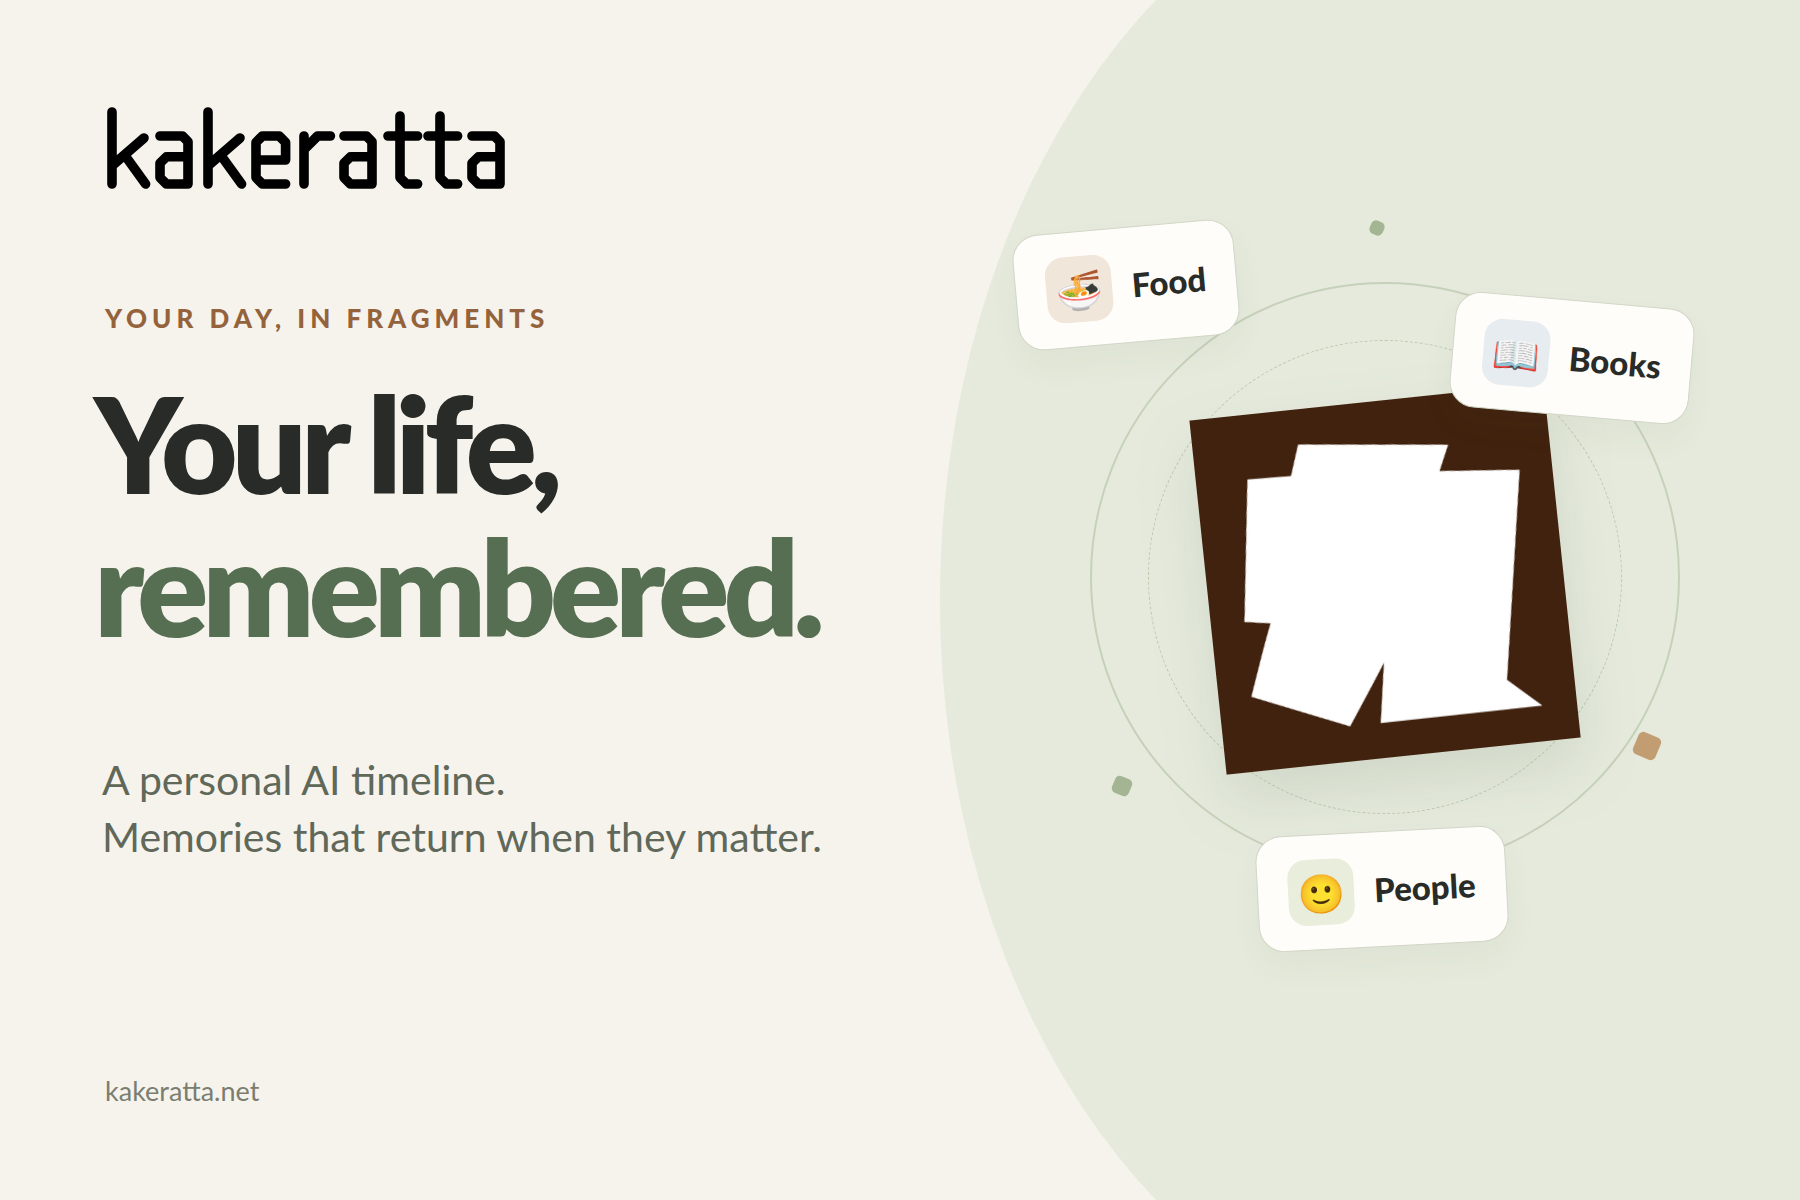
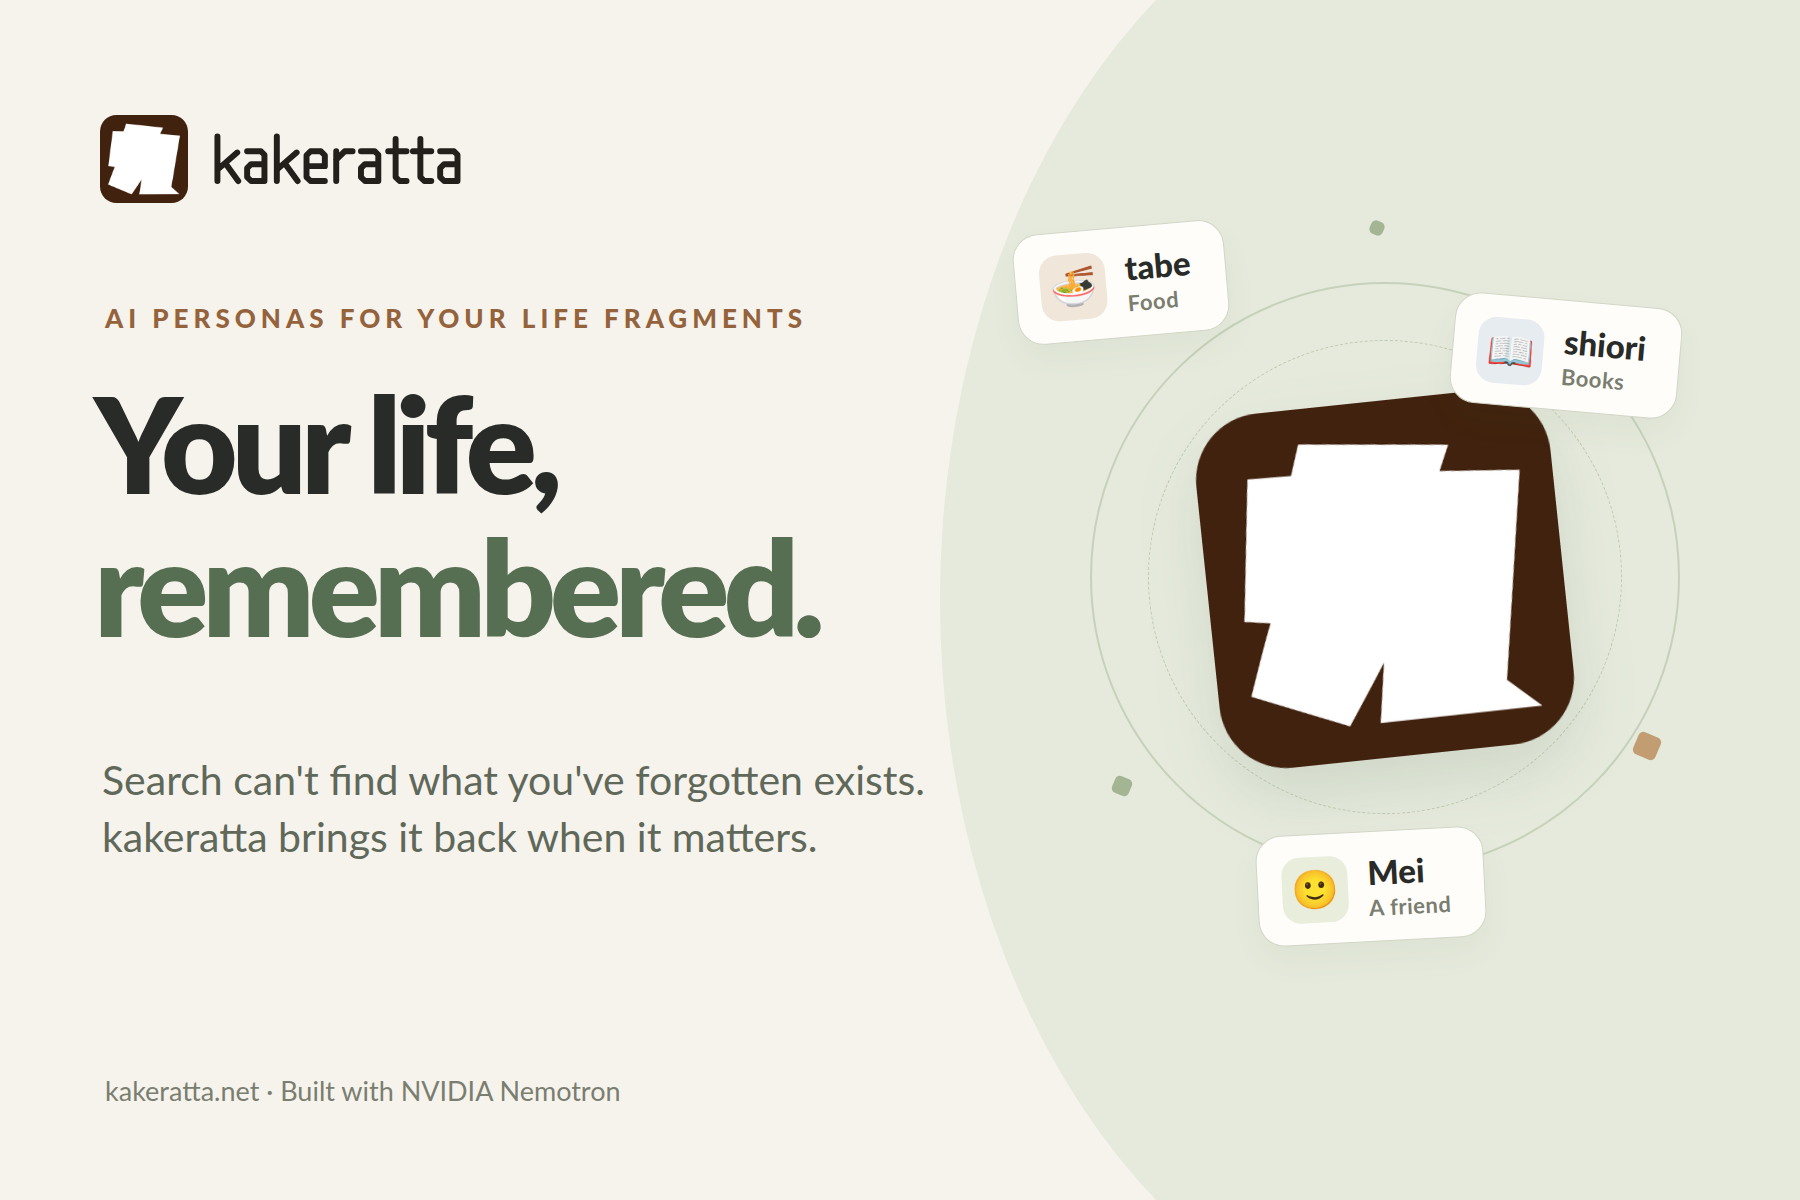
Refine hackathon project description and thumbnail

diff --git a/docs/hackathon/thumbnail.html b/docs/hackathon/thumbnail.html
@@ -8,7 +8,7 @@
   body { background: #f6f3ed; color: #282b27; font-family: Lato, Arial, sans-serif; }
   .wash { position: absolute; width: 1080px; height: 1500px; left: 940px; top: -150px; border-radius: 50%; background: #e5eadc; }
   .brand { position: absolute; left: 100px; top: 104px; font-size: 88px; font-weight: 900; letter-spacing: -4px; }
-  .brand img { width: 424px; height: 88px; }
+  .brand img { display: block; width: 418px; height: 110px; margin-left: -11px; }
   .eyebrow { position: absolute; left: 105px; top: 302px; font-size: 26px; letter-spacing: 5px; font-weight: 800; color: #94623b; }
   h1 { position: absolute; left: 94px; top: 372px; margin: 0; font-size: 132px; font-weight: 900; line-height: 1.08; letter-spacing: -6px; }
   h1 span { color: #566e51; }
@@ -16,9 +16,10 @@
   .footer { position: absolute; left: 105px; bottom: 93px; font-size: 27px; color: #7a7e70; }
   .ring { position: absolute; left: 1090px; top: 282px; width: 590px; height: 590px; border: 2px solid #c6d1ba; border-radius: 50%; }
   .ring:after { content: ''; position: absolute; inset: 56px; border: 1px dashed #becaaf; border-radius: 50%; }
-  .logo { position: absolute; left: 1207px; top: 401px; width: 356px; height: 356px; transform: rotate(-6deg); filter: drop-shadow(0 28px 30px #566e5125); }
-  .persona { position: absolute; display: flex; align-items: center; gap: 20px; padding: 24px 30px; border: 1px solid #d1d6c7; border-radius: 26px; background: #fffdfa; box-shadow: 0 16px 32px #53644a0c; font-size: 33px; font-weight: 800; }
-  .persona span { display: grid; place-items: center; width: 66px; height: 66px; border-radius: 18px; font-size: 38px; background: #f0e6d9; }
+  .logo { position: absolute; left: 1207px; top: 401px; width: 356px; height: 356px; border-radius: 67px; transform: rotate(-6deg); filter: drop-shadow(0 28px 30px #566e5125); }
+  .persona { position: absolute; display: flex; align-items: center; gap: 20px; padding: 20px 34px 20px 24px; border: 1px solid #d1d6c7; border-radius: 26px; background: #fffdfa; box-shadow: 0 16px 32px #53644a0c; font-size: 33px; font-weight: 800; }
+  .persona small { display: block; margin-top: 2px; font-size: 22px; font-weight: 700; letter-spacing: 0.5px; color: #7a7e70; }
+  .persona span { font-family: "Noto Color Emoji", "Apple Color Emoji", "Segoe UI Emoji", sans-serif; display: grid; place-items: center; width: 66px; height: 66px; border-radius: 18px; font-size: 38px; background: #f0e6d9; }
   .food { left: 1015px; top: 227px; transform: rotate(-5deg); }
   .books { left: 1452px; top: 300px; transform: rotate(5deg); }
   .people { left: 1257px; top: 831px; transform: rotate(-3deg); }
@@ -30,15 +31,15 @@
   .three { left: 1370px; top: 221px; width: 14px; height: 14px; }
 </style>
 <div class="wash"></div>
-<div class="brand"><img src="../../frontend/public/wordmark.svg" alt="kakeratta"></div>
-<div class="eyebrow">YOUR DAY, IN FRAGMENTS</div>
+<div class="brand"><img src="../../frontend/public/logo.svg" alt="kakeratta"></div>
+<div class="eyebrow">AI PERSONAS FOR YOUR LIFE FRAGMENTS</div>
 <h1>Your life,<br><span>remembered.</span></h1>
-<p class="description">A personal AI timeline.<br>Memories that return when they matter.</p>
+<p class="description">Search can't find what you've forgotten exists.<br>kakeratta brings it back when it matters.</p>
 <div class="ring"></div>
 <img class="logo" src="../../frontend/public/icon.png" alt="kakeratta logo">
-<div class="persona food"><span>🍜</span>Food</div>
-<div class="persona books"><span>📖</span>Books</div>
-<div class="persona people"><span>🙂</span>People</div>
+<div class="persona food"><span>🍜</span><div>tabe<small>Food</small></div></div>
+<div class="persona books"><span>📖</span><div>shiori<small>Books</small></div></div>
+<div class="persona people"><span>🙂</span><div>Mei<small>A friend</small></div></div>
 <div class="dot one"></div><div class="dot two"></div><div class="dot three"></div>
-<div class="footer">kakeratta.net</div>
+<div class="footer">kakeratta.net · Built with NVIDIA Nemotron</div>
 </html>
